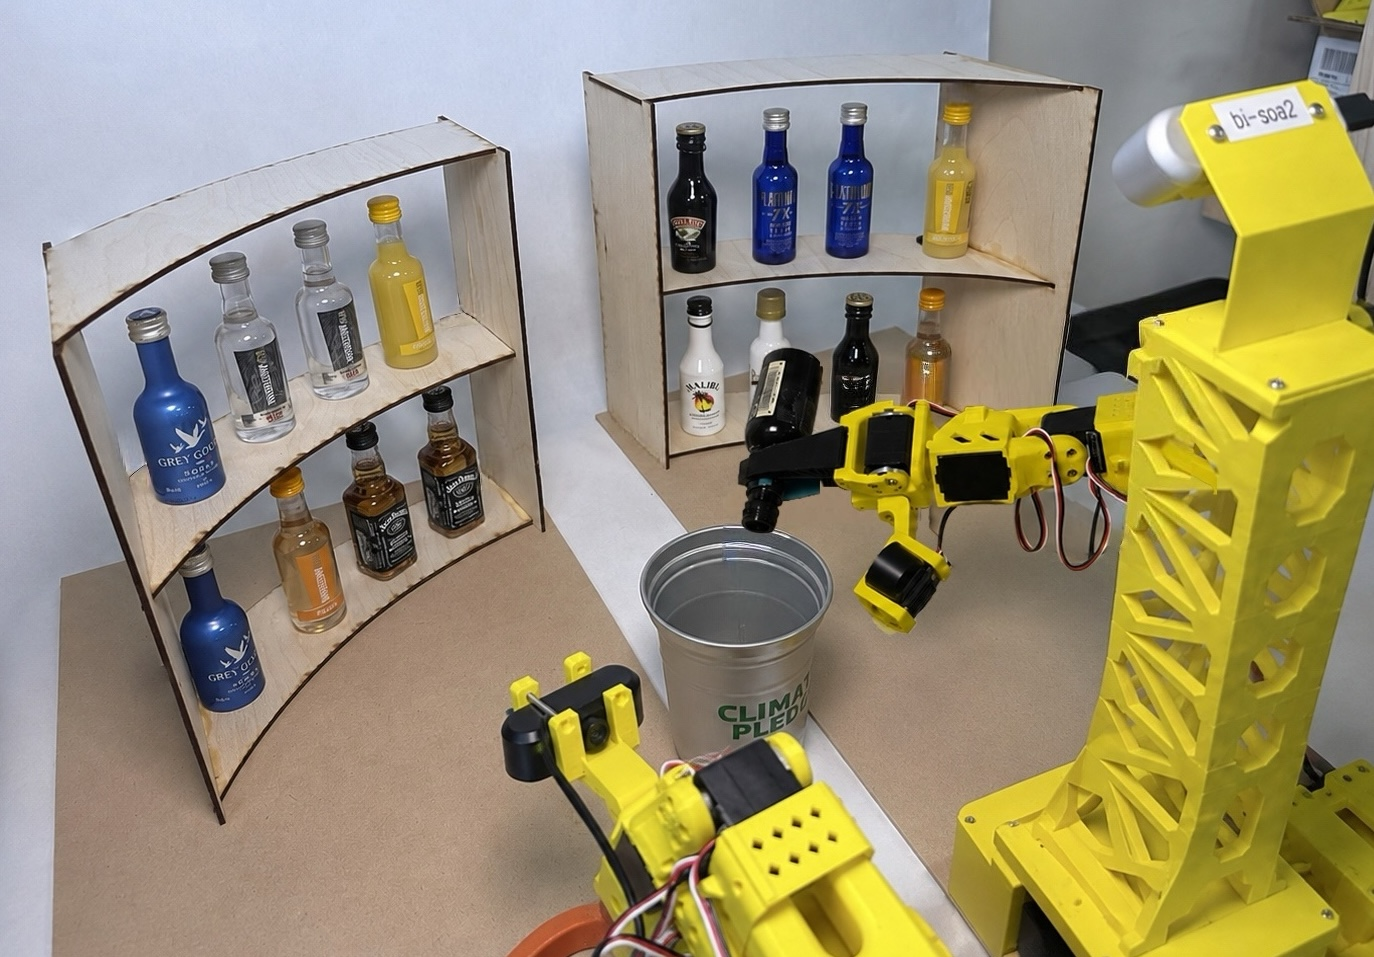
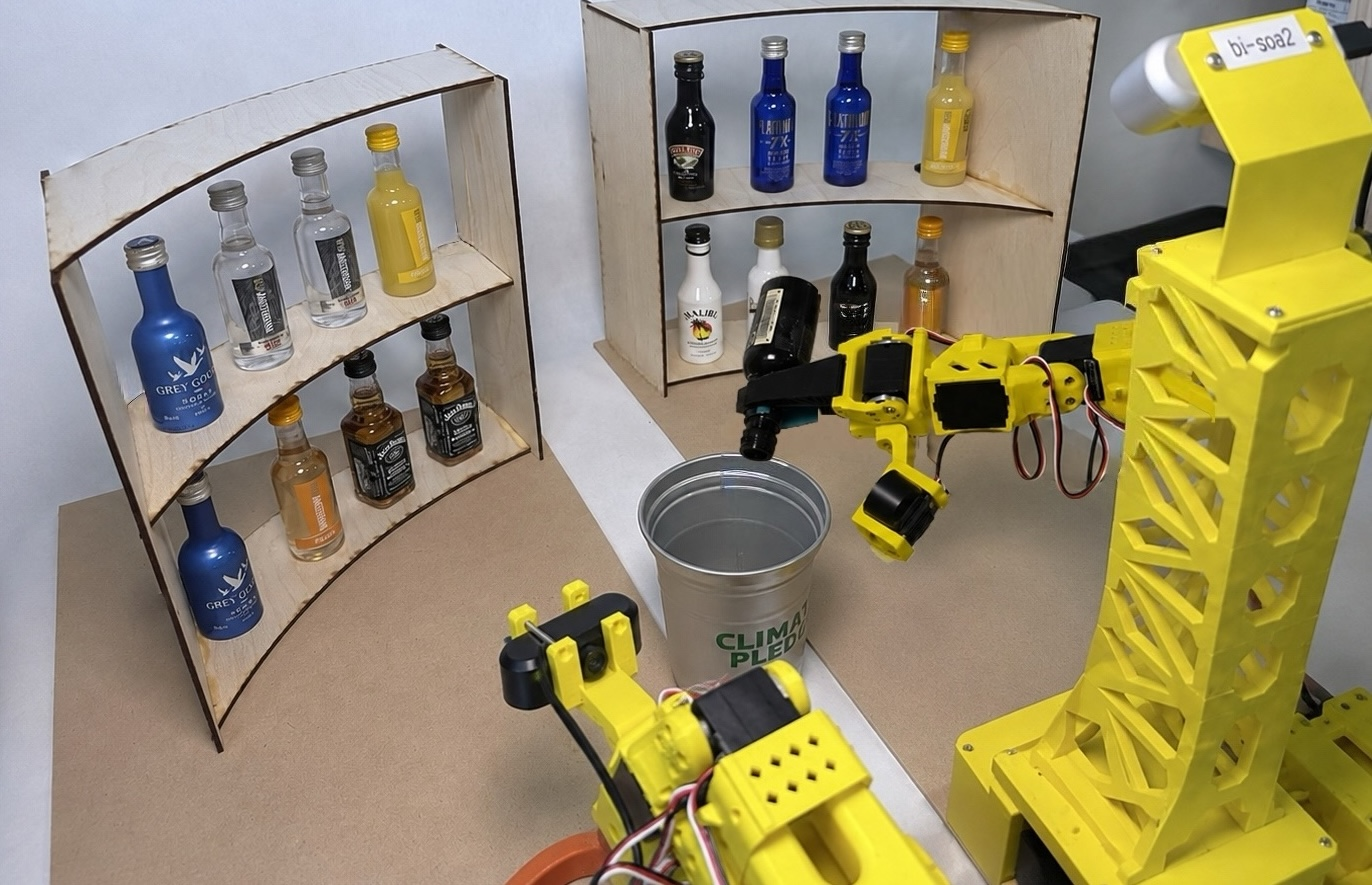
polish: rework Drunky's Why We Built This and Evaluation stat row
Why We Built This: rebuilt around Joyce's four-beat copy (lead, problem,
rhetorical pivot, answer) in a left/right layout with the photo cropped
to exactly match the text column's rendered height (measured via
ResizeObserver, since grid/flex auto-sizing can only grow a row to fit
its tallest item, not shrink to match a shorter one) — plus color/font
variety across the four lines and dialed-in spacing per Joyce's review.

Evaluation & Results: merged the standalone 62.7% highlight tile into
the same row as the trial-design stats (480/12/10), aligned so the
numbers and labels share the same baseline instead of the tile's own
padding pushing it out of line with the plain stat cells.

Also re-applies the fixed 16:9 hero crop (CaseStudyShell.tsx) that was
touched earlier this session.

diff --git a/components/case-study/DrunkyCaseStudyPage.tsx b/components/case-study/DrunkyCaseStudyPage.tsx
@@ -1,6 +1,6 @@
 "use client";
 
-import { Fragment, useState } from "react";
+import { Fragment, useEffect, useRef, useState } from "react";
 import type { Project } from "@/data/projects";
 import type { CaseStudyDrunky } from "@/data/caseStudies";
 import CaseStudyShell from "./CaseStudyShell";
@@ -152,6 +152,25 @@ export default function DrunkyCaseStudyPage({
   caseStudy: CaseStudyDrunky;
   nextProject: Project;
 }) {
+  // Grid/flex auto-sizing can only ever grow a row to fit its tallest
+  // item — there's no pure-CSS way to shrink the photo down to match the
+  // (shorter) text column instead. So measure the text column's actual
+  // rendered height and apply it to the image directly. Desktop only
+  // (via the --why-img-h var, read by a sm:-scoped class) — mobile stacks
+  // the two and should keep the photo at its own natural aspect ratio.
+  const whyTextRef = useRef<HTMLDivElement>(null);
+  const [whyImgHeight, setWhyImgHeight] = useState<number | null>(null);
+
+  useEffect(() => {
+    const el = whyTextRef.current;
+    if (!el) return;
+    const observer = new ResizeObserver(([entry]) => {
+      setWhyImgHeight(entry.contentRect.height);
+    });
+    observer.observe(el);
+    return () => observer.disconnect();
+  }, []);
+
   return (
     <CaseStudyShell caseStudy={caseStudy} tocItems={DRUNKY_TOC_ITEMS} nextProject={nextProject}>
       <CaseStudySection
@@ -160,33 +179,50 @@ export default function DrunkyCaseStudyPage({
         title="Why We Built This"
         icon={SECTION_ICONS.why}
       >
-        <div className="mb-11 grid grid-cols-1 gap-8 sm:grid-cols-2">
+        {/* Photo left (scaled down, no longer filling the column — it was
+            competing too hard with the text), one continuous four-beat
+            read on the right. Same 16px size throughout (no hierarchy
+            jump), but each beat gets its own color/font treatment so the
+            voice visibly shifts: neutral scene-setting → direct problem →
+            serif-italic pivot → bold payoff in the brand color. */}
+        {/* grid-cols-[2fr_3fr] instead of an even split + w-4/5 on the
+            image — that earlier approach left the image's own column 20%
+            wider than the image itself, so reducing `gap` barely moved
+            the text (it was closing the 12px gap, not the ~94px of dead
+            column space next to it). Sizing the column to match the image
+            directly means `gap` is now the only space between them. */}
+        <div className="mb-11 grid grid-cols-1 gap-5 sm:grid-cols-[2fr_3fr] sm:gap-[40px]">
           {caseStudy.whyWeBuiltThis.image && (
             <img
               src={caseStudy.whyWeBuiltThis.image}
               alt="Drunky bar setup — mini bottles and printed cocktail menus"
-              // Source photo is a tall vertical shot (3213×5712) — capped to
-              // a normal portrait ratio instead of running the full height,
-              // which was dwarfing the story text next to it.
-              className="aspect-[4/5] w-full rounded-xl object-cover"
+              // aspect-[4/5] is the mobile fallback (natural sizing when
+              // stacked). At sm+ only, an explicit pixel height measured
+              // from the text column overrides it via a CSS var — a plain
+              // inline height would apply on mobile too, where the photo
+              // should keep its own aspect ratio instead of matching a
+              // full-width single-column text block. object-bottom crops
+              // off the top of the photo rather than the menus lower in
+              // frame.
+              className="aspect-[4/5] w-full rounded-xl object-cover object-bottom sm:aspect-auto sm:h-[var(--why-img-h)]"
+              style={whyImgHeight ? ({ "--why-img-h": `${whyImgHeight}px` } as React.CSSProperties) : undefined}
             />
           )}
-          <div className="flex flex-col justify-center gap-4">
-            {caseStudy.whyWeBuiltThis.story.map((paragraph, i) => {
-              const isEmphasis = typeof paragraph === "object";
-              return (
-                <p
-                  key={i}
-                  className={
-                    isEmphasis
-                      ? "text-[18px] leading-relaxed font-bold text-[var(--color-primary)]"
-                      : "text-[16px] leading-relaxed text-[var(--color-muted)]"
-                  }
-                >
-                  {isEmphasis ? paragraph.text : paragraph}
-                </p>
-              );
-            })}
+          <div ref={whyTextRef} className="flex flex-col justify-start gap-5 self-start">
+            <p className="text-[17px] leading-relaxed text-[var(--color-muted)]">
+              {caseStudy.whyWeBuiltThis.lead}
+            </p>
+            <p className="text-[17px] leading-relaxed text-[var(--color-muted)]">
+              {caseStudy.whyWeBuiltThis.problem}
+            </p>
+            {/* Extra breathing room before the pivot line — the rest of
+                the stack shares a tighter gap-5. */}
+            <p className="mt-4 font-serif text-[18px] leading-relaxed text-[var(--color-primary)] italic">
+              {caseStudy.whyWeBuiltThis.question}
+            </p>
+            <p className="text-[17px] leading-relaxed font-semibold text-[var(--color-primary-dark)]">
+              {caseStudy.whyWeBuiltThis.answer}
+            </p>
           </div>
         </div>
       </CaseStudySection>
@@ -245,30 +281,30 @@ export default function DrunkyCaseStudyPage({
         title="The Pipeline"
         icon={SECTION_ICONS.pipeline}
       >
-        {/* items-stretch (grid's default) makes both columns match the
-            taller one's height — the video wrapper fills that with
-            h-full + object-contain, so it grows/shrinks to match the step
-            list instead of sitting at its own fixed aspect ratio. */}
-        <div className="mb-6 grid grid-cols-1 gap-8 sm:grid-cols-2">
+        {caseStudy.pipeline.video && (
+          <p className="mb-5 text-[14px] leading-relaxed text-[var(--color-muted)] italic">
+            {caseStudy.pipeline.video.caption}
+          </p>
+        )}
+        {/* Fixed aspect-ratio (not h-full/min-h) so the video's box always
+            exactly matches its own content — forcing extra box height
+            beyond that (min-h, tried earlier) just left dead space above
+            the picture, which read as a stray gap with square corners
+            floating inside the real rounded box. Sizing up now comes from
+            a wider column (3fr vs 2fr) instead, which grows the video with
+            zero letterboxing since width and height stay locked together. */}
+        <div className="mb-6 grid grid-cols-1 items-center gap-8 sm:grid-cols-[3fr_2fr]">
           {caseStudy.pipeline.video && (
-            <div className="flex flex-col">
-              <video
-                src={caseStudy.pipeline.video.src}
-                // object-contain (not cover) so the full frame still shows
-                // uncropped — any extra height just letterboxes instead of
-                // cutting off the UI, same fix as before.
-                className="min-h-0 flex-1 rounded-xl object-contain"
-                autoPlay
-                muted
-                loop
-                playsInline
-              />
-              <p className="mt-3 text-[14px] leading-relaxed text-[var(--color-muted)] italic">
-                {caseStudy.pipeline.video.caption}
-              </p>
-            </div>
+            <video
+              src={caseStudy.pipeline.video.src}
+              className="aspect-[1720/1080] w-full rounded-2xl object-contain"
+              autoPlay
+              muted
+              loop
+              playsInline
+            />
           )}
-          <div className="flex flex-col justify-center gap-4">
+          <div className="flex flex-col gap-4">
             {caseStudy.pipeline.phases.map((phase, i) => (
               <Reveal key={phase.title} delay={i * 0.06} className="flex items-start gap-3">
                 <div className="flex h-9 w-9 shrink-0 items-center justify-center rounded-full bg-[var(--color-primary)] font-serif text-[15px] font-bold text-[var(--color-on-primary)]">
@@ -353,24 +389,33 @@ export default function DrunkyCaseStudyPage({
         title="Evaluation & Results"
         icon={SECTION_ICONS.evaluation}
       >
-        <div className="mb-8 grid grid-cols-3 gap-4">
+        {/* One row, four numbers — the trial-design stats plus the overall
+            result, instead of a separate oversized green block for 62.7%
+            that made a middling number look like the headline stat. Same
+            row, same scale, just the last cell gets the green highlight. */}
+        <div className="mb-8 grid grid-cols-2 gap-4 sm:grid-cols-4">
           {caseStudy.evaluation.experiment.map((stat, i) => (
-            <Reveal key={stat.label} delay={i * 0.06} className="text-center">
+            // Same py-3 as the highlighted tile below, even though these
+            // three have no visible box — otherwise the tile's own padding
+            // pushes its number/label down and the row reads misaligned.
+            <Reveal key={stat.label} delay={i * 0.06} className="py-3 text-center">
               <div className="font-serif text-[2rem] leading-none font-bold text-[var(--color-fg)] sm:text-[2.5rem]">
                 {stat.value}
               </div>
               <p className="mt-1.5 text-[13px] leading-snug text-[var(--color-muted)]">{stat.label}</p>
             </Reveal>
           ))}
-        </div>
-
-        <div className="mb-8 rounded-xl bg-[var(--color-primary)] p-8 text-center">
-          <div className="font-serif text-[3.5rem] leading-none font-bold text-[var(--color-on-primary)]">
-            {caseStudy.evaluation.headline.value}
-          </div>
-          <p className="mt-2 text-[15px] leading-snug text-[var(--color-on-primary)] opacity-90">
-            {caseStudy.evaluation.headline.label}
-          </p>
+          <Reveal
+            delay={caseStudy.evaluation.experiment.length * 0.06}
+            className="rounded-xl bg-[var(--color-primary)] py-3 text-center"
+          >
+            <div className="font-serif text-[2rem] leading-none font-bold text-[var(--color-on-primary)] sm:text-[2.5rem]">
+              {caseStudy.evaluation.headline.value}
+            </div>
+            <p className="mt-1.5 text-[13px] leading-snug text-[var(--color-on-primary)] opacity-90">
+              {caseStudy.evaluation.headline.label}
+            </p>
+          </Reveal>
         </div>
 
         <div className="mb-5 grid grid-cols-1 gap-5 sm:grid-cols-2">

diff --git a/data/caseStudies.ts b/data/caseStudies.ts
@@ -453,6 +453,8 @@ export type CaseStudySimple = {
   tldr: string;
   heroLabel: string;
   heroImage?: string;
+  // CSS object-position — see CaseStudyShellData in CaseStudyShell.tsx.
+  heroImagePosition?: string;
   meta: { label: string; value: string }[];
   links?: CaseStudyLink[];
   liveDemo?: { label: string; href: string };
@@ -558,6 +560,9 @@ export const focusfarmCaseStudy: CaseStudySimple = {
   tldr: PLACEHOLDER,
   heroLabel: "hero screenshot — FocusFarm",
   heroImage: "/images/focusfarm/cover.png",
+  // Same reason as the Work grid card's coverPosition: the "FOCUS FARM"
+  // wordmark sits near the left edge, which a centered 16:9 crop clips.
+  heroImagePosition: "left center",
   meta: [
     { label: "Role", value: "Project Owner and Management" },
     { label: "For", value: "Students and professionals building focus habits" },
@@ -628,9 +633,16 @@ export type CaseStudyDrunky = {
   meta: { label: string; value: string }[];
   links?: CaseStudyLink[];
   liveDemo?: { label: string; href: string };
+  // A single left/right layout (photo left, four short paragraphs right)
+  // reading as one continuous arc — origin, the problem, a rhetorical
+  // pivot, then the technical answer — rather than separately styled
+  // pieces that broke the visual hierarchy.
   whyWeBuiltThis: {
     image?: string;
-    story: (string | { text: string; emphasis: true })[];
+    lead: string;
+    problem: string;
+    question: string;
+    answer: string;
   };
   systemArchitecture: {
     stages: { title: string; body: string; items: string[] }[];
@@ -683,14 +695,13 @@ export const drunkyCaseStudy: CaseStudyDrunky = {
   liveDemo: { label: "View on GitHub", href: "https://github.com/tonyechen/drunky_ros" },
   whyWeBuiltThis: {
     image: "/images/drunky/setup.jpg",
-    story: [
-      "Bartending looks simple until you try to automate it — pour a shot without spilling, track what's already in the glass, adapt when a bottle isn't exactly where it was last time. It's a sequential, multi-step manipulation problem, and most robotic bar setups sidestep the hard part with hard-coded routines that break the moment something shifts.",
-      "So we built Global Liquor Exchange: a two-armed bartender with an 8-cocktail, 8-single-liquid menu on one screen. The right arm handles alcohols, the left handles mixers, and the two never share the workspace at the same time — sequential by design, so there's no collision risk.",
-      {
-        text: "Detection, alignment, and motion planning do the real work: overhead and wrist-mounted cameras find and align each bottle, and MoveIt 2 plans a collision-aware path for the grab, pour, and toss.",
-        emphasis: true,
-      },
-    ],
+    lead: "Honestly, it started because we all just like making cocktails. Bimanual manipulation needed a real task to test itself against, and this felt like a genuinely fun one to build around.",
+    problem:
+      "Digging in, we realized most bartending robots have a blind spot: move a bottle, and they have no idea where it went. Most systems on the market work off fixed positions, calibrated once and expected to stay that way.",
+    question:
+      "Could we build something that actually saw the bottle, instead of just remembering where it used to be?",
+    answer:
+      "Using YOLO-based detection, the answer was yes — the robot could find and grab the right bottle no matter where it sat on the shelf.",
   },
   systemArchitecture: {
     stages: [
@@ -726,7 +737,7 @@ export const drunkyCaseStudy: CaseStudyDrunky = {
     video: {
       src: "/images/drunky/demo.mp4",
       caption:
-        "The full loop: a drink order goes in on the bartender_ui, gets sent to the robot, and the arm runs Find → Go to → Align → Grab → Pour.",
+        "The full loop: an order placed on the bartender UI dispatches to the arm, which executes five phases in sequence — Find → Go to → Align → Grab → Pour — to complete the drink.",
     },
     phases: [
       { number: 1, title: "Find", body: "Overhead YOLO + depth pose", time: "~3 s" },
@@ -737,7 +748,7 @@ export const drunkyCaseStudy: CaseStudyDrunky = {
       { number: 6, title: "Toss", body: "Recorded toss + release into glass", time: "~16 s" },
     ],
     summary:
-      "One arm, 6 phases ≈ 1 min 7 s. Arms run sequentially (right then left), so a full two-ingredient cocktail — all 12 phases — takes ≈ 2 min 15 s.",
+      "One arm takes about 1 min 7 s for 6 phases — sequential arms make a full two-ingredient cocktail in about 2 min 15 s.",
   },
   challenges: {
     pivot: {
@@ -793,7 +804,9 @@ export const drunkyCaseStudy: CaseStudyDrunky = {
       { value: "12", label: "shelf positions" },
       { value: "10", label: "trials per cell" },
     ],
-    headline: { value: "62.7%", label: "overall success rate across 480 trials" },
+    // Shorter now that it sits in the same row as "480 total trials" —
+    // repeating "across 480 trials" here was redundant once they're adjacent.
+    headline: { value: "62.7%", label: "overall success rate" },
     stats: [
       { value: "71.7% vs 53.8%", label: "Top shelf vs. bottom shelf" },
       { value: "69.2% vs 56.3%", label: "Right arm (alcohols) vs. left arm (mixers)" },

diff --git a/components/case-study/CaseStudyShell.tsx b/components/case-study/CaseStudyShell.tsx
@@ -18,6 +18,10 @@ export type CaseStudyShellData = {
   heroLabel: string;
   heroVideo?: string; // optional cover video shown in place of the hero placeholder
   heroImage?: string; // optional static cover image — checked if heroVideo isn't set
+  // CSS object-position — for covers whose focal point isn't centered, same
+  // convention as Project.coverPosition on the Work grid cards. Needed now
+  // that the hero is a fixed 16:9 crop instead of the raw image's own ratio.
+  heroImagePosition?: string;
   meta: { label: string; value: string }[];
   links?: CaseStudyLink[]; // optional external links (GitHub, Kaggle, etc.), shown top-right of the title
   // Rendered as a button top-right of the title (next to `links`, if any)
@@ -128,7 +132,8 @@ export default function CaseStudyShell({
               <img
                 src={caseStudy.heroImage}
                 alt={caseStudy.heroLabel}
-                className="w-full object-cover"
+                style={{ objectPosition: caseStudy.heroImagePosition }}
+                className="aspect-[16/9] w-full object-cover"
               />
               <div className="absolute inset-0 flex items-center justify-center bg-black/50 opacity-0 transition-opacity duration-200 group-hover:opacity-100">
                 <span className="rounded-full bg-white px-6 py-3 text-[16px] font-semibold text-[var(--color-fg)]">
@@ -140,7 +145,12 @@ export default function CaseStudyShell({
             <img
               src={caseStudy.heroImage}
               alt={caseStudy.heroLabel}
-              className="mx-5 my-7 w-[calc(100%-2.5rem)] rounded-xl object-cover sm:mx-6 sm:w-[calc(100%-3rem)] lg:mx-10 lg:w-[calc(100%-5rem)]"
+              style={{ objectPosition: caseStudy.heroImagePosition }}
+              // Fixed 16:9 so every project's hero reads the same height —
+              // without it, each project's own cover photo aspect ratio
+              // drove the box height directly, so a squarer source photo
+              // (Drunky, Pelican) rendered visibly taller than the rest.
+              className="mx-5 my-7 aspect-[16/9] w-[calc(100%-2.5rem)] rounded-xl object-cover sm:mx-6 sm:w-[calc(100%-3rem)] lg:mx-10 lg:w-[calc(100%-5rem)]"
             />
           )
         ) : (
